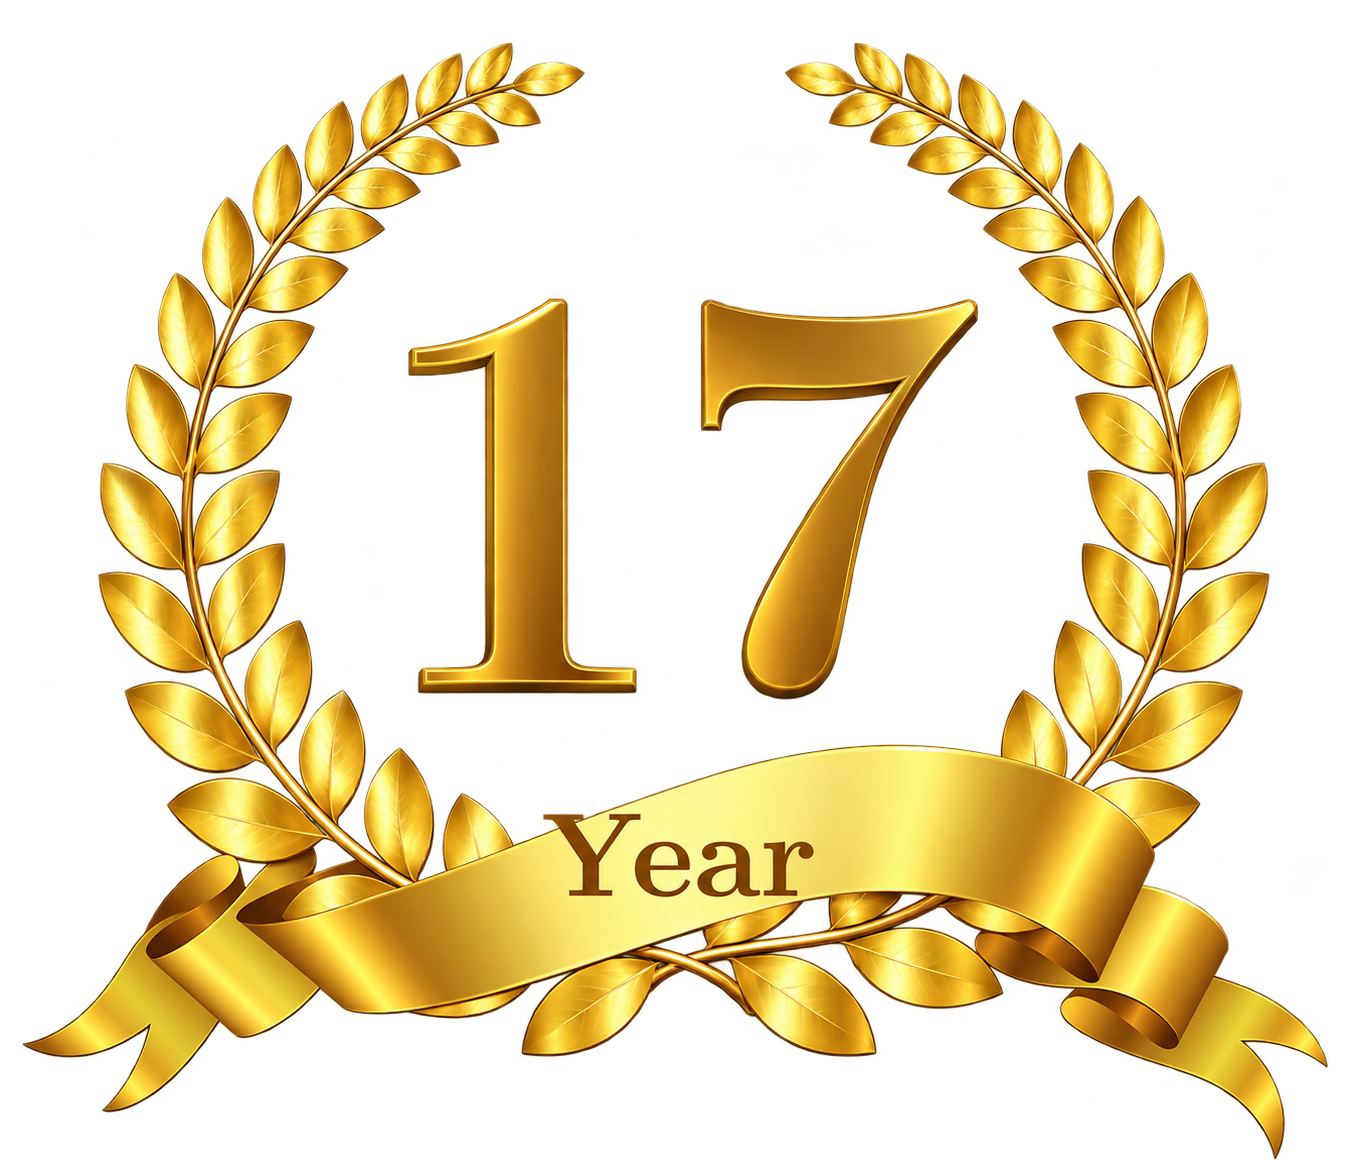
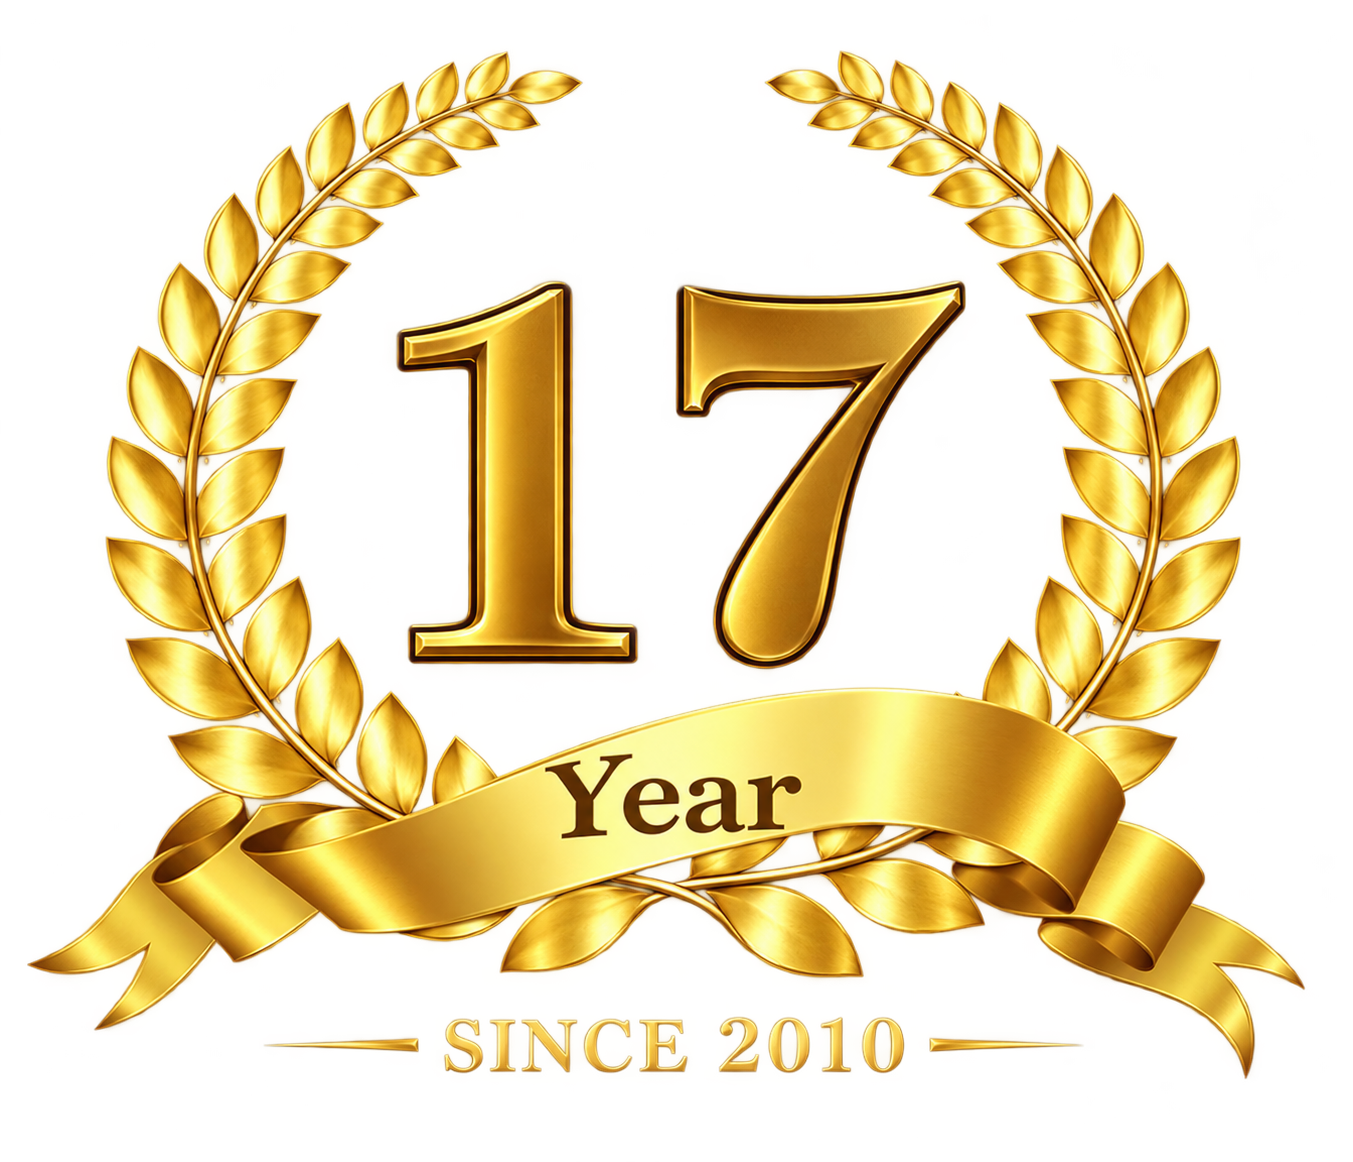
completed client req

diff --git a/src/app/landowners/LandownerHeroCarousel.tsx b/src/app/landowners/LandownerHeroCarousel.tsx
@@ -1,0 +1,168 @@
+'use client';
+
+import React, { useState, useEffect, useCallback } from 'react';
+import Image from 'next/image';
+import { ChevronLeft, ChevronRight, Pause, Play } from 'lucide-react';
+import landownerPlotHero from '../../../public/landowner-plot-hero.png';
+import landownerCarouselVilla from '../../../public/landowner-carousel-villa.png';
+import landownerCarouselCommercial from '../../../public/landowner-carousel-commercial.png';
+import landownerCarouselAerial from '../../../public/landowner-carousel-aerial.png';
+
+export interface CarouselSlide {
+  id: string;
+  image: any;
+  badge: string;
+  title: string;
+  subtitle: string;
+  alt: string;
+}
+
+const slides: CarouselSlide[] = [
+  {
+    id: 'plot-hero',
+    image: landownerPlotHero,
+    badge: 'PRAJHA LAND DEVELOPMENT',
+    title: 'Transforming Prime Land Into High-Value Real Estate',
+    subtitle: 'Joint venture partnerships to maximize returns on residential and commercial plots.',
+    alt: 'Prajha Group Landowner Joint Venture Real Estate Plot and Villa Development',
+  },
+  {
+    id: 'gated-community',
+    image: landownerCarouselVilla,
+    badge: 'GATED VILLA TOWNSHIPS',
+    title: 'Turn Vacant Land Into Luxurious Gated Communities',
+    subtitle: 'World-class infrastructure, modern amenities, and architectural excellence.',
+    alt: 'Prajha Group Luxury Gated Villa Community Joint Venture',
+  },
+  {
+    id: 'commercial-tower',
+    image: landownerCarouselCommercial,
+    badge: 'COMMERCIAL REAL ESTATE',
+    title: 'Unlock Premium Value With High-Rise Commercial Spaces',
+    subtitle: 'Strategic city-center developments for high-yielding retail and office complexes.',
+    alt: 'Prajha Group Commercial Real Estate Tower Joint Venture',
+  },
+  {
+    id: 'master-planning',
+    image: landownerCarouselAerial,
+    badge: 'AERIAL & MASTER PLANNING',
+    title: 'Strategic Land Evaluation & Comprehensive Master Planning',
+    subtitle: 'Expert feasibility analysis and hassle-free clear title legal processing.',
+    alt: 'Prajha Group Aerial Land Parcel Survey and Master Planning',
+  },
+];
+
+export default function LandownerHeroCarousel() {
+  const [currentIndex, setCurrentIndex] = useState(0);
+  const [isAutoPlaying, setIsAutoPlaying] = useState(true);
+
+  const nextSlide = useCallback(() => {
+    setCurrentIndex((prev) => (prev + 1) % slides.length);
+  }, []);
+
+  const prevSlide = useCallback(() => {
+    setCurrentIndex((prev) => (prev - 1 + slides.length) % slides.length);
+  }, []);
+
+  useEffect(() => {
+    if (!isAutoPlaying) return;
+    const interval = setInterval(() => {
+      nextSlide();
+    }, 5000);
+    return () => clearInterval(interval);
+  }, [isAutoPlaying, nextSlide]);
+
+  return (
+    <div
+      className="relative w-full max-w-[540px] mx-auto rounded-3xl overflow-hidden shadow-2xl border-4 border-white bg-slate-900 group"
+      onMouseEnter={() => setIsAutoPlaying(false)}
+      onMouseLeave={() => setIsAutoPlaying(true)}
+    >
+      {/* Slides Container */}
+      <div className="relative h-[340px] sm:h-[420px] lg:h-[450px] w-full overflow-hidden">
+        {slides.map((slide, index) => {
+          const isActive = index === currentIndex;
+          return (
+            <div
+              key={slide.id}
+              className={`absolute inset-0 transition-opacity duration-700 ease-in-out ${
+                isActive ? 'opacity-100 z-10 scale-100' : 'opacity-0 z-0 scale-105 pointer-events-none'
+              }`}
+              style={{ transitionProperty: 'opacity, transform' }}
+            >
+              <Image
+                src={slide.image}
+                alt={slide.alt}
+                fill
+                priority={index === 0}
+                className="object-cover transition-transform duration-1000 group-hover:scale-105"
+                sizes="(max-width: 768px) 100vw, 540px"
+              />
+              
+              {/* Gradient overlays for contrast */}
+              <div className="absolute inset-0 bg-gradient-to-t from-slate-950/90 via-slate-950/30 to-transparent" />
+              <div className="absolute inset-0 bg-gradient-to-r from-slate-950/40 via-transparent to-transparent" />
+
+              {/* Text content overlay */}
+              <div className="absolute bottom-6 left-6 right-6 text-white space-y-2 z-20">
+                <div className="inline-block">
+                  <span className="px-2.5 py-1 rounded-md text-[10px] font-extrabold uppercase tracking-widest bg-[#F37924] text-white shadow-sm">
+                    {slide.badge}
+                  </span>
+                </div>
+                <h3 className="text-lg sm:text-xl font-extrabold leading-snug drop-shadow-md text-white">
+                  {slide.title}
+                </h3>
+                <p className="text-xs text-slate-200 line-clamp-2 font-medium">
+                  {slide.subtitle}
+                </p>
+              </div>
+            </div>
+          );
+        })}
+      </div>
+
+      {/* Navigation Arrows */}
+      <button
+        onClick={prevSlide}
+        aria-label="Previous Slide"
+        className="absolute left-3 top-1/2 -translate-y-1/2 z-30 p-2.5 rounded-full bg-slate-950/40 hover:bg-[#166534] text-white backdrop-blur-md transition-all opacity-80 group-hover:opacity-100 focus:outline-hidden hover:scale-110 shadow-lg"
+      >
+        <ChevronLeft className="w-5 h-5" />
+      </button>
+      <button
+        onClick={nextSlide}
+        aria-label="Next Slide"
+        className="absolute right-3 top-1/2 -translate-y-1/2 z-30 p-2.5 rounded-full bg-slate-950/40 hover:bg-[#166534] text-white backdrop-blur-md transition-all opacity-80 group-hover:opacity-100 focus:outline-hidden hover:scale-110 shadow-lg"
+      >
+        <ChevronRight className="w-5 h-5" />
+      </button>
+
+      {/* Slide Indicators / Pagination Dots & Play/Pause */}
+      <div className="absolute top-4 right-4 z-30 flex items-center gap-2 bg-slate-950/60 backdrop-blur-md px-3 py-1.5 rounded-full border border-white/10">
+        <button
+          onClick={() => setIsAutoPlaying(!isAutoPlaying)}
+          aria-label={isAutoPlaying ? 'Pause carousel' : 'Play carousel'}
+          className="text-white/80 hover:text-white transition-colors"
+        >
+          {isAutoPlaying ? <Pause className="w-3.5 h-3.5" /> : <Play className="w-3.5 h-3.5 text-[#F37924]" />}
+        </button>
+        <div className="h-3 w-[1px] bg-white/20" />
+        <div className="flex items-center gap-1.5">
+          {slides.map((_, idx) => (
+            <button
+              key={idx}
+              onClick={() => setCurrentIndex(idx)}
+              aria-label={`Go to slide ${idx + 1}`}
+              className={`h-2 rounded-full transition-all duration-300 ${
+                idx === currentIndex
+                  ? 'w-6 bg-[#F37924]'
+                  : 'w-2 bg-white/40 hover:bg-white/70'
+              }`}
+            />
+          ))}
+        </div>
+      </div>
+    </div>
+  );
+}

diff --git a/src/app/landowners/page.tsx b/src/app/landowners/page.tsx
@@ -23,7 +23,7 @@ import {
 import AdvancedFaqSection, { FaqItem } from '../components/AdvancedFaqSection';
 import LandownerEnquiryForm from './LandownerEnquiryForm';
 import ScrollToSectionButton from './ScrollToSectionButton';
-import landownerPlotHero from '../../../public/landowner-plot-hero.png';
+import LandownerHeroCarousel from './LandownerHeroCarousel';
 
 export const metadata: Metadata = {
   title: 'Joint Venture Opportunities for Landowners | Prajha Group',
@@ -178,27 +178,9 @@ export default function LandownersPage() {
                 </div>
               </div>
 
-              {/* Hero Visual Image */}
+              {/* Hero Visual Image Carousel */}
               <div className="lg:col-span-5 w-full flex justify-center">
-                <div className="relative w-full max-w-[500px] rounded-3xl overflow-hidden shadow-2xl border-4 border-white bg-slate-900 group">
-                  <Image
-                    src={landownerPlotHero}
-                    alt="Prajha Group Landowner Joint Venture Real Estate Plot and Villa Development"
-                    width={800}
-                    height={600}
-                    className="w-full h-auto object-cover group-hover:scale-105 transition-transform duration-700"
-                    priority
-                  />
-                  <div className="absolute inset-0 bg-gradient-to-t from-slate-950/80 via-transparent to-transparent opacity-80" />
-                  <div className="absolute bottom-6 left-6 right-6 text-white space-y-1">
-                    <span className="text-[10px] font-extrabold uppercase tracking-widest text-[#F37924]">
-                      PRAJHA LAND DEVELOPMENT
-                    </span>
-                    <h3 className="text-base font-bold leading-tight">
-                      Transforming Prime Land Into High-Value Real Estate
-                    </h3>
-                  </div>
-                </div>
+                <LandownerHeroCarousel />
               </div>
 
             </div>

diff --git a/src/app/about-us/page.tsx b/src/app/about-us/page.tsx
@@ -98,7 +98,7 @@ export default function AboutUsPage() {
                 <div className="flex items-start sm:items-center gap-3 px-3.5 sm:px-4 py-2.5 rounded-2xl bg-gradient-to-r from-amber-500/10 via-emerald-500/10 to-emerald-50/30 border-l-4 border-[#F37924] bg-white shadow-sm max-w-full">
                   <Sparkles className="w-4 h-4 sm:w-5 sm:h-5 text-[#F37924] shrink-0 mt-0.5 sm:mt-0" />
                   <h2 className="text-xs sm:text-[15px] md:text-[16px] font-bold text-slate-800 italic leading-snug">
-                    EPC Contracting • Builders & Developers • Infrastructure & Construction • Skill Academies & Social Trust
+                    Builders & Developers • Infrastructure Development • Construction Excellence • Property Development
                   </h2>
                 </div>
 

diff --git a/src/app/associate-directors/page.tsx b/src/app/associate-directors/page.tsx
@@ -69,7 +69,7 @@ const DIRECTOR_ROLES: DirectorRole[] = [
     ],
   },
   {
-    title: 'Director - Construction Projects',
+    title: 'Director - Projects',
     category: 'Civil Execution & Delivery',
     icon: HardHat,
     description:
